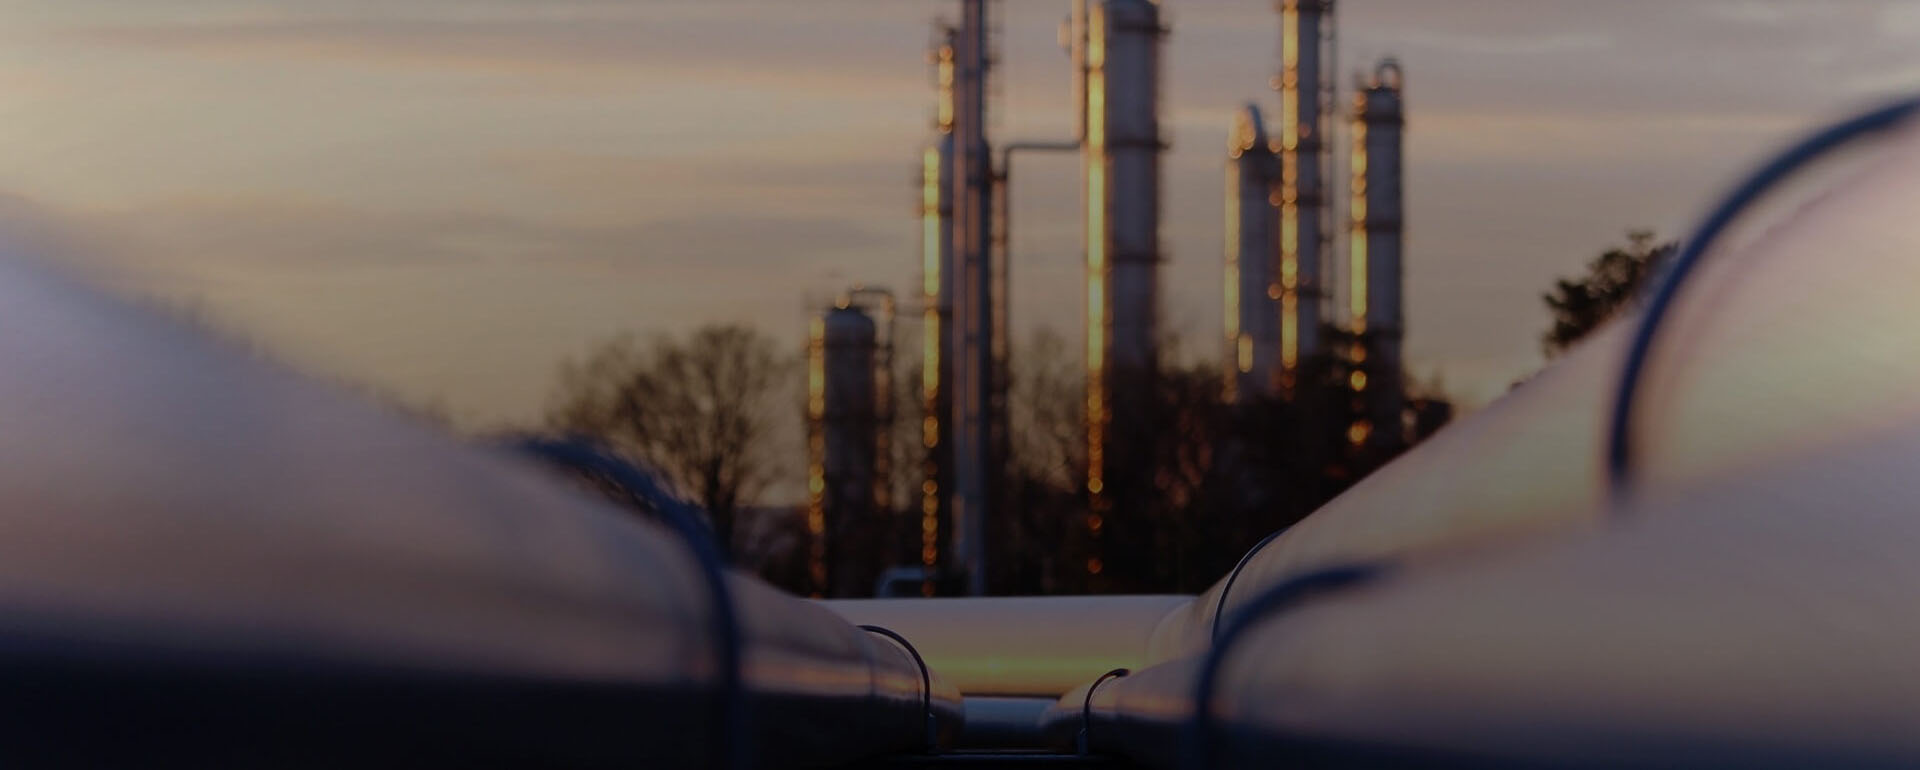
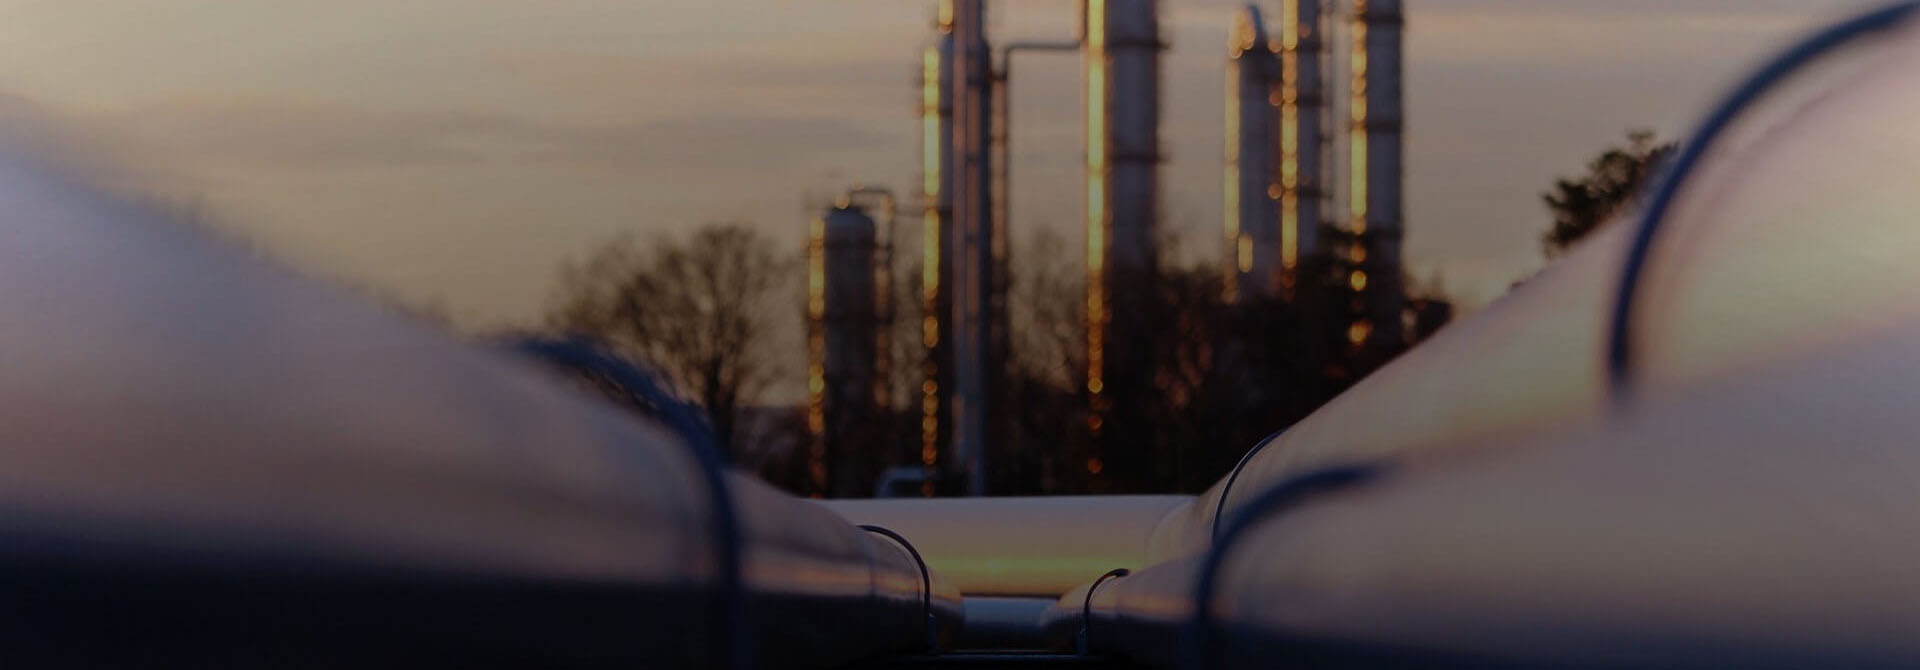
feat: section greatting

diff --git a/index.html b/index.html
@@ -42,11 +42,20 @@
       </div>
     </div>
   </header>
-  <section class="header-bottom">
-
-  </section>
-
   <main>
+    <section class="greating">
+      <div class="greating__container">
+        <h1 class="greating__title">
+          КОМПЛЕКСНЫЕ ПОСТАВКИ
+          МАТЕРИАЛОВ ДЛЯ&nbsp;ИНЖЕНЕРНЫХ
+          СЕТЕЙ
+        </h1>
+        <h3 class="greating__subtitle">
+          от торгового дома «РЕГЕНТ»
+        </h3>
+      </div>
+
+    </section>
 
   </main>
 

diff --git a/blocks/greating/greating.css b/blocks/greating/greating.css
@@ -1,0 +1,15 @@
+@import url(./__container/greating__container.css);
+@import url(./__title/greating__title.css);
+@import url(./__subtitle/greating__subtitle.css);
+
+.greating {
+  min-height: 670px;
+  display: flex;
+  flex-direction: column;
+  justify-content: center;
+  align-items: flex-start;
+  background-image: url(../../images/Banner_bottom.jpg);
+  background-repeat: no-repeat;
+  background-size: cover;
+  background-position: top;
+}

diff --git a/blocks/header/header.css b/blocks/header/header.css
@@ -20,6 +20,6 @@
   align-items: flex-start;
   background-image: url(../../images/Banner_top.jpg);
   background-repeat: no-repeat;
-  background-size: contain;
+  background-size: cover;
   background-position: top;
 }

diff --git a/blocks/greating/__container/greating__container.css b/blocks/greating/__container/greating__container.css
@@ -1,0 +1,8 @@
+.greating__container {
+  width: 1097px;
+  border-top: 5px solid #2b8d44;
+  display: flex;
+  flex-direction: column;
+  justify-content: flex-start;
+  margin: 0 0 120px 253px;
+}

diff --git a/pages/index.css b/pages/index.css
@@ -2,3 +2,4 @@
 @import url(../fonts/golostext.css);
 @import url(../blocks/page/page.css);
 @import url(../blocks/header/header.css);
+@import url(../blocks/greating/greating.css);

diff --git a/blocks/greating/__subtitle/greating__subtitle.css b/blocks/greating/__subtitle/greating__subtitle.css
@@ -1,0 +1,7 @@
+.greating__subtitle {
+  font-weight: normal;
+  font-size: 36px;
+  line-height: 43px;
+  color: #fff;
+  margin: 25px 0 0;
+}

diff --git a/blocks/greating/__title/greating__title.css b/blocks/greating/__title/greating__title.css
@@ -1,0 +1,7 @@
+.greating__title {
+  font-weight: 500;
+  font-size: 64px;
+  line-height: 77px;
+  color: #fff;
+  margin: 35px 0 0 0;
+}
